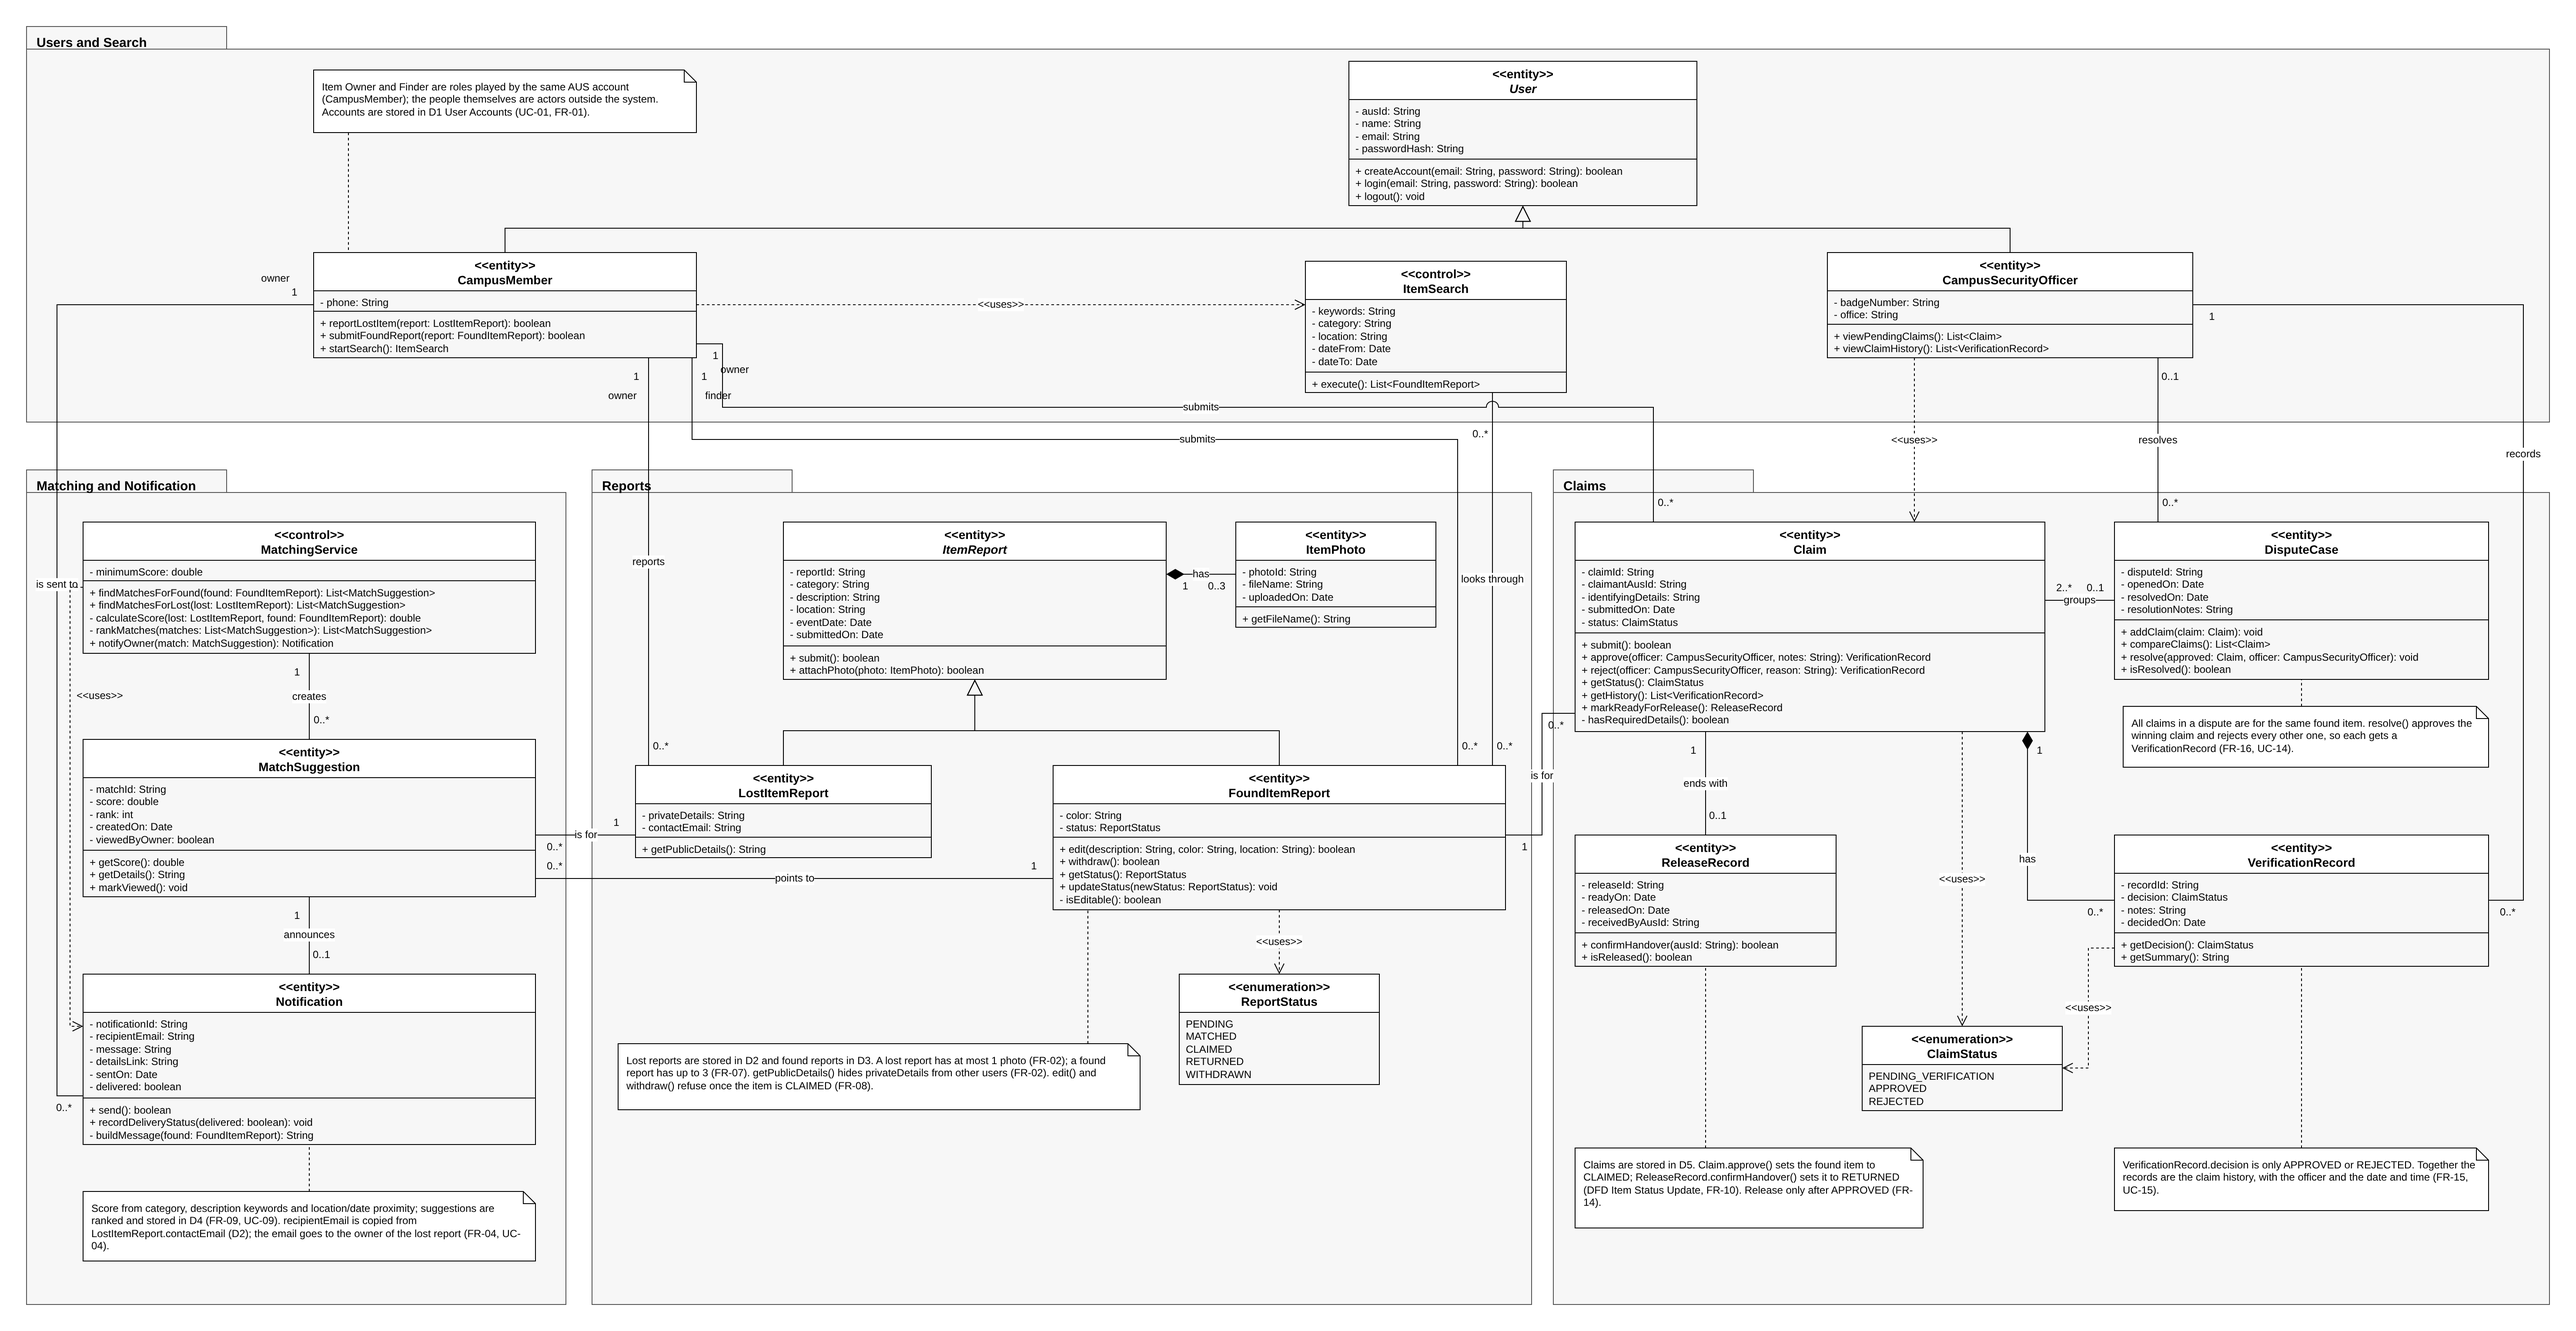
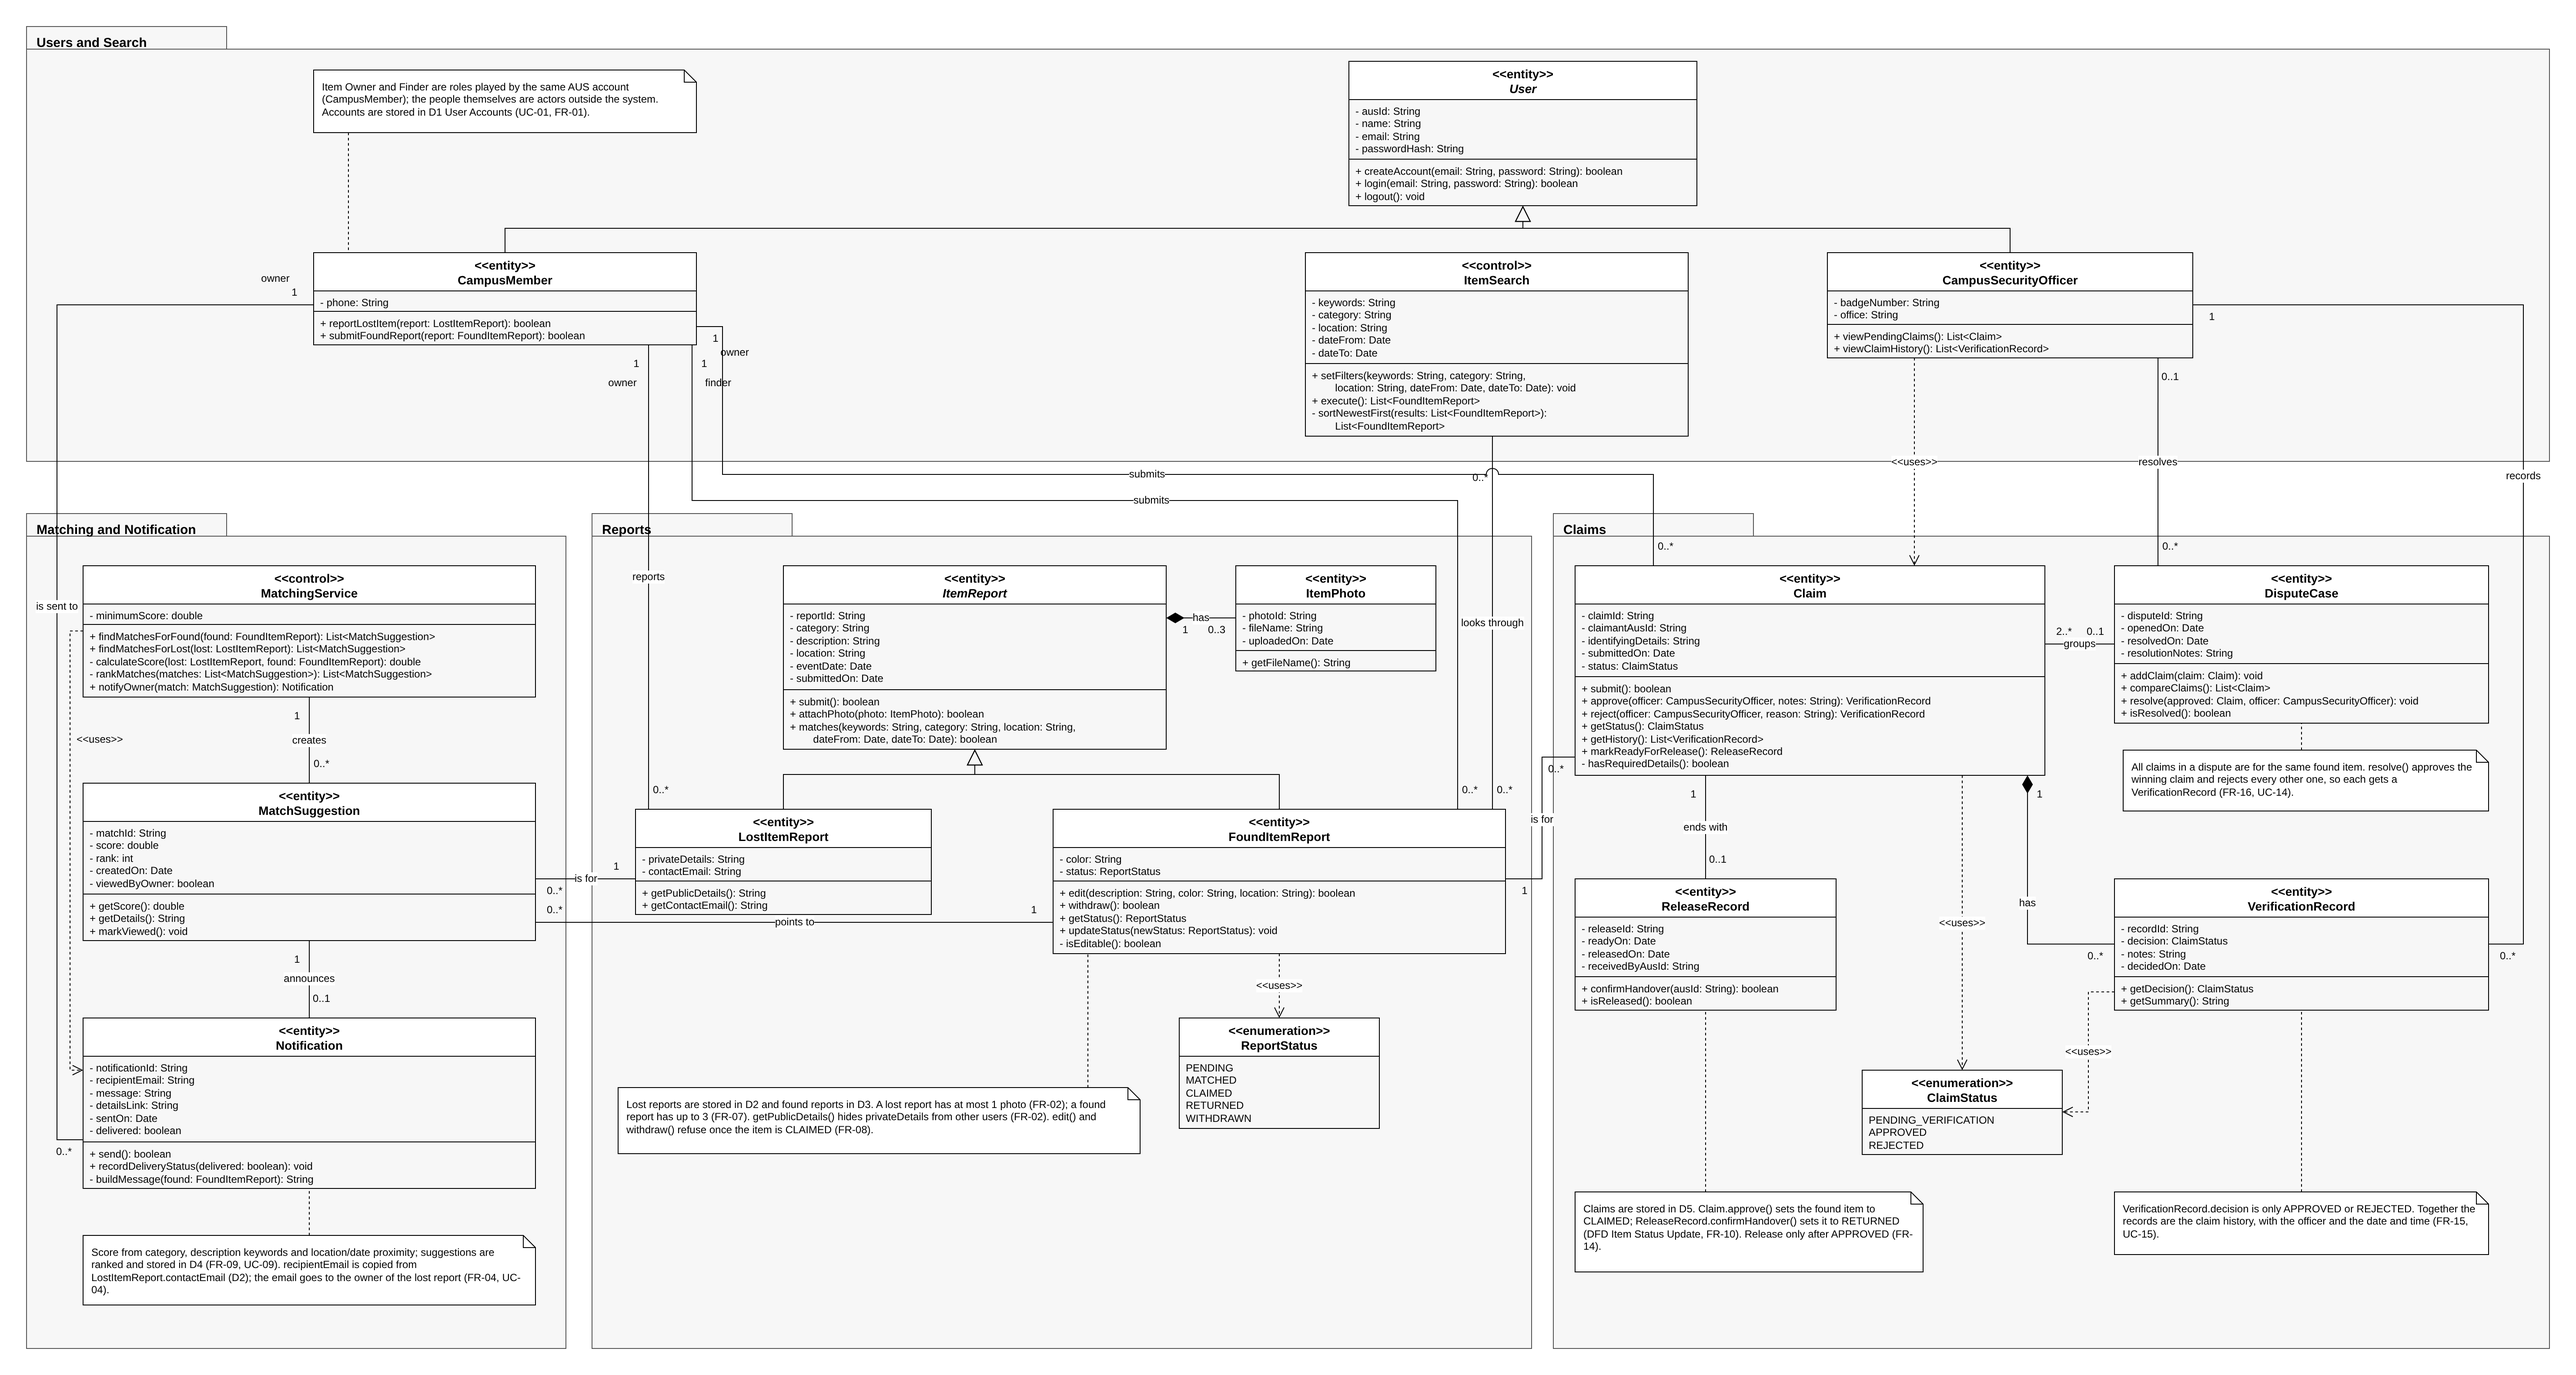
Update class diagram for the sequence diagrams (Hamda Albahri)

diff --git a/Documents/Lab5_Changes.md b/Documents/Lab5_Changes.md
@@ -1,0 +1,13 @@
+# Earlier Lab Changes for Lab 6
+
+Changes made to the Lab 5 class diagram so that it supports the three sequence diagrams.
+
+| File | Change Made | Caused By |
+| --- | --- | --- |
+| Project/Object_Modeling/Class_Diagram/Consolidated_Class_Diagram | ItemSearch: Add + setFilters(keywords: String, category: String, location: String, dateFrom: Date, dateTo: Date): void | UC-03 message 1: the owner enters the filters (FR-03). |
+| Project/Object_Modeling/Class_Diagram/Consolidated_Class_Diagram | ItemSearch: Add - sortNewestFirst(results: List\<FoundItemReport\>): List\<FoundItemReport\> | UC-03 message 7: results are shown newest first (FR-03). |
+| Project/Object_Modeling/Class_Diagram/Consolidated_Class_Diagram | ItemReport: Add + matches(keywords: String, category: String, location: String, dateFrom: Date, dateTo: Date): boolean | UC-03 message 5: the search asks each report whether it fits the filters. It is on ItemReport because category, description, location and eventDate are there. |
+| Project/Object_Modeling/Class_Diagram/Consolidated_Class_Diagram | LostItemReport: Add + getContactEmail(): String | UC-09 message 9: the notification copies the owner's contact email (Lab 5 decision). |
+| Project/Object_Modeling/Class_Diagram/Consolidated_Class_Diagram | CampusMember: Remove + startSearch(): ItemSearch and the dashed CampusMember ⇢ ItemSearch dependency | In UC-03 the owner works with the ItemSearch control object directly. The lecture slides say entity objects should not access control objects, and CampusMember is an entity. |
+
+UC-14 needed no change: its notes file lists no operation missing from the Lab 5 class diagram. All other classes and relationships are unchanged.
